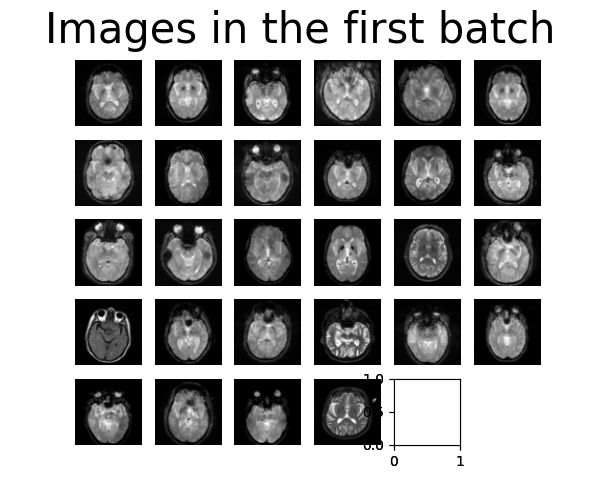
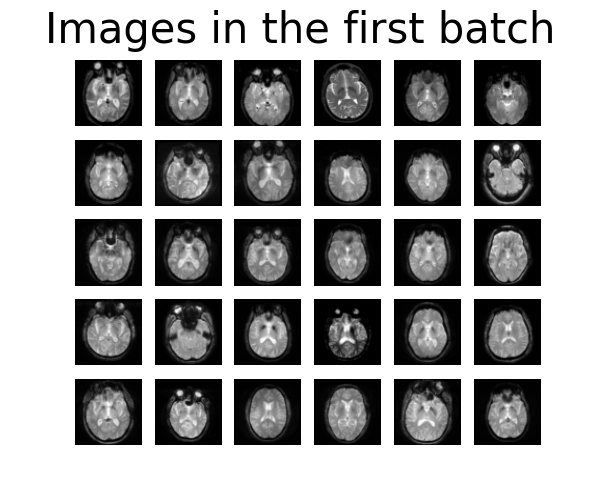
Updated sample training batch. Added function to visualise forward process

diff --git a/recognition/Denoising_Diffusion_ADNI_46966159/dataset.py b/recognition/Denoising_Diffusion_ADNI_46966159/dataset.py
@@ -3,12 +3,13 @@ import torchvision
 import torchvision.transforms as transforms
 import matplotlib.pyplot as plt
 
+
 # specify directory of data
 # dataroot = "/home/groups/comp3710/ADNI"
 dataroot = "/home/lgmoak/Nextcloud/University/Courses/COMP3710/Assessment/PatternAnalysis-2024/recognition/Denoising_Diffusion_ADNI_46966159/ADNI"
 
 # chosen hyperparameters
-batch_size = 28
+batch_size = 32
 image_size = 64
 
 # normalise, resize images and randomly flip
@@ -58,6 +59,28 @@ def show_first_batch(loader):
         show_images(batch[0], "Images in the first batch")
         break
 
+def show_forward(ddpm, loader):
+    """
+    Visual forward process step
+    :param ddpm: diffusion model
+    :param loader: dataloader
+    :return:
+    """
+    for batch in loader:
+        imgs = batch[0]
+
+        show_images(imgs, "Original images")
+
+        for percent in [0.25, 0.5, 0.75, 1]:
+            show_images(
+                ddpm(imgs.cpu(),
+                     [int(percent * 1000) - 1 for _ in range(len(imgs))]),
+                f"DDPM Noisy images {int(percent * 100)}%"
+            )
+        break
+
 
 if __name__ == '__main__':
     show_first_batch(dataloader)
+    # ddpm = modules.UNET()
+    # show_forward(ddpm, dataloader)

diff --git a/recognition/Denoising_Diffusion_ADNI_46966159/README.md b/recognition/Denoising_Diffusion_ADNI_46966159/README.md
@@ -131,7 +131,7 @@ found. Finally, the images were normalised and then converted to a tensor.
 
 ## Results
 ### Training
-An example batch of training images is displayed below:
+An example batch of training images is displayed below.
 ![training_img.png](figures/training_img.png)
 
 $`t`$-distributed stochastic neighbor embeddings is a non-linear dimensionality reduction technique
